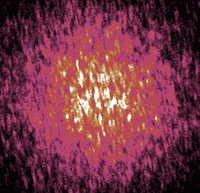
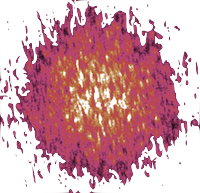
Make background transparent

diff --git a/docs/source/conf.py b/docs/source/conf.py
@@ -181,7 +181,7 @@ html_extra_path = ['_extra']
 #
 # html_sidebars = {}
 
-html_favicon = 'favicon.ico'
+html_favicon = 'favicon_t.ico'
 
 
 # -- Options for HTMLHelp output ---------------------------------------------
